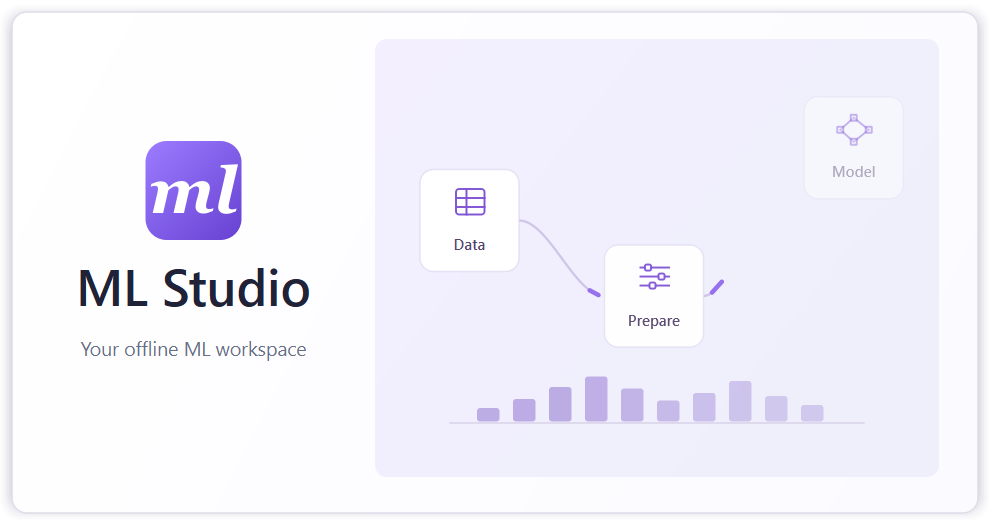
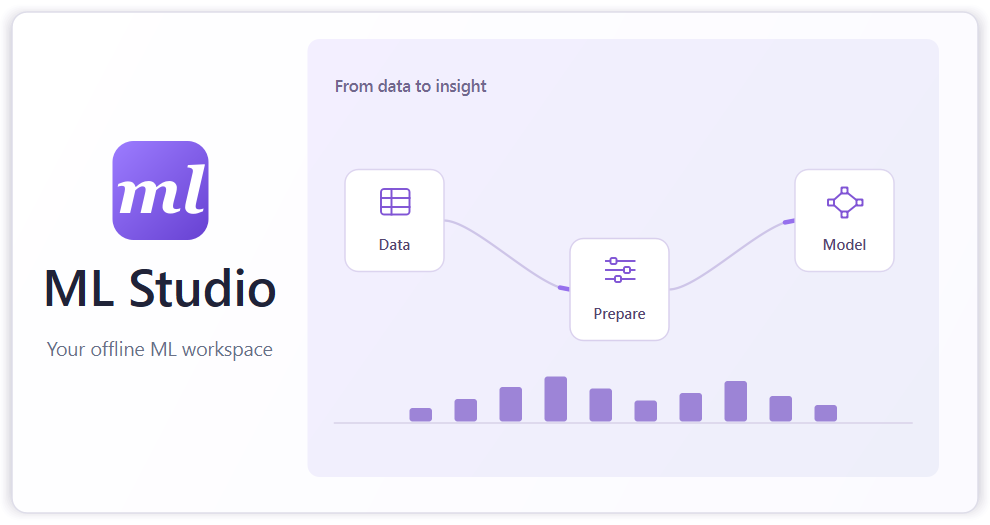
Clarify splash workflow and animate chart bars

diff --git a/src/mlstudio/launch_splash.py b/src/mlstudio/launch_splash.py
@@ -93,32 +93,33 @@ class LaunchSplash(QWidget):
         p.drawRoundedRect(QRectF(8, 8, 644, 334), 10, 10)
 
         # Wordmark and left-aligned type replace the old central orbit.
-        logo = QLinearGradient(97, 94, 161, 160)
+        logo = QLinearGradient(75, 94, 139, 160)
         logo.setColorAt(0, QColor('#9c7cff'))
         logo.setColorAt(1, QColor('#6741d2'))
         p.setBrush(logo)
         p.setPen(Qt.PenStyle.NoPen)
-        p.drawRoundedRect(QRectF(97, 94, 64, 66), 14, 14)
+        p.drawRoundedRect(QRectF(75, 94, 64, 66), 14, 14)
         font = QFont('Georgia')
         font.setPixelSize(43)
         font.setBold(True)
         font.setItalic(True)
         p.setFont(font)
         p.setPen(QColor('#ffffff'))
-        p.drawText(QRectF(97, 94, 64, 66), Qt.AlignmentFlag.AlignCenter, 'ml')
-        text((8, 169, 242, 42), 'ML Studio', 34, '#202338', QFont.Weight.DemiBold,
+        p.drawText(QRectF(75, 94, 64, 66), Qt.AlignmentFlag.AlignCenter, 'ml')
+        text((8, 169, 197, 42), 'ML Studio', 34, '#202338', QFont.Weight.DemiBold,
              Qt.AlignmentFlag.AlignHCenter | Qt.AlignmentFlag.AlignVCenter)
-        text((8, 221, 242, 22), 'Your offline ML workspace', 13, '#687086',
+        text((8, 221, 197, 22), 'Your offline ML workspace', 13, '#687086',
              align=Qt.AlignmentFlag.AlignHCenter | Qt.AlignmentFlag.AlignVCenter)
 
         # A decorative miniature workflow, without pretend task completion.
         p.setPen(Qt.PenStyle.NoPen)
-        panel = QLinearGradient(250, 26, 626, 318)
+        panel = QLinearGradient(205, 26, 626, 318)
         panel.setColorAt(0, QColor('#f3efff'))
         panel.setColorAt(1, QColor('#eeeffa'))
         p.setBrush(panel)
-        p.drawRoundedRect(QRectF(250, 26, 376, 292), 8, 8)
-        positions = [(280, 113), (400, 159), (520, 113)]
+        p.drawRoundedRect(QRectF(205, 26, 421, 292), 8, 8)
+        text((223, 47, 385, 20), 'From data to insight', 11, '#71678c', QFont.Weight.DemiBold)
+        positions = [(230, 113), (380, 159), (530, 113)]
         arrival_offsets = [(-10, -52), (44, 64), (20, -60)]
         arrival_duration = .88
         arrival_gap = .46
@@ -197,14 +198,19 @@ class LaunchSplash(QWidget):
 
         # Small abstract chart strokes give the composition a data texture.
         p.setPen(QPen(QColor('#d8d2e8'), 1))
-        p.drawLine(QPointF(300, 282), QPointF(576, 282))
+        p.drawLine(QPointF(223, 282), QPointF(608, 282))
         p.setPen(Qt.PenStyle.NoPen)
-        for index, height in enumerate([9, 15, 23, 30, 22, 14, 19, 27, 17, 11]):
-            alpha = .35 if self.reduced_motion else .3+.23*(1+math.sin(t*1.7-index*.4))/2
+        for index, final_height in enumerate([9, 15, 23, 30, 22, 14, 19, 27, 17, 11]):
+            if self.reduced_motion:
+                rise = 1.
+            else:
+                progress = min(1., max(0., (t - (1.45 + index * .1)) / .72))
+                rise = 1. - (1. - progress) ** 3
+            height = max(1., final_height * rise)
             color = QColor('#8d70cf')
-            color.setAlphaF(alpha)
+            color.setAlphaF(.42 + .42 * rise)
             p.setBrush(color)
-            p.drawRoundedRect(QRectF(318+index*24, 281-height, 15, height), 2, 2)
+            p.drawRoundedRect(QRectF(273+index*30, 281-height, 15, height), 2, 2)
 
         p.end()
 
@@ -230,7 +236,7 @@ def main():
                 'pid': os.getpid(), 'frames': splash.frames,
                 'reduced_motion': reduced, 'elapsed_seconds': round(time.monotonic()-splash.started, 2)
             }))
-        QTimer.singleShot(1200, capture)
+        QTimer.singleShot(3200, capture)
 
     def read_commands():
         try:

diff --git a/packaging/verify_launch_animation.py b/packaging/verify_launch_animation.py
@@ -20,7 +20,8 @@ def run():
     process = subprocess.Popen(command, stdin=subprocess.PIPE, env=env, text=True, creationflags=flags)
     try:
         # Deliberately leave the owning thread blocked: the animation must live.
-        time.sleep(2)
+        # Keep the UI thread blocked through the staged node and chart motion.
+        time.sleep(4.0)
         assert process.poll() is None, 'Splash exited before the IDE was ready'
         report = json.loads((out/'animation.json').read_text())
         assert report['frames'] > 12, report

diff --git a/docs/STARTUP_AND_WORKFLOW_EXPANSION.md b/docs/STARTUP_AND_WORKFLOW_EXPANSION.md
@@ -6,7 +6,7 @@ The stable project-root EXE still loads current source; it was not rebuilt. `mai
 
 `packaging/verify_workspace_startup.py` launches the **actual MLStudio.exe twice** under an isolated instance name/storage directory and confirms both launches reach the same application PID. Latest local measurement: workspace rendered in **5.43 seconds**, with 4.70 seconds after the splash helper was started. Timing varies with caches, hardware and system load; this is not clean-machine installer acceptance. Evidence: `examples/startup-verified/result.json`.
 
-`packaging/verify_launch_animation.py` runs the real `pythonw` helper while its owner is deliberately blocked. It verified 72 timer frames, visibly different screenshots during the tile assembly, a **5.66-second minimum-duration flow**, ready/fade termination and cleanup when the owner closes its private pipe. Windows' system animation preference is respected. The light landscape card and left-aligned branding remain; the Data → Prepare → Model illustration is decorative and does not report actual dataset operations. Evidence: `examples/launch-animation-verified/`.
+`packaging/verify_launch_animation.py` runs the real `pythonw` helper while its owner is deliberately blocked through the animation. It verified 197 timer frames, different first/final workflow screenshots, chart bars rising from the baseline, a **5.67-second minimum-duration flow**, ready/fade termination and cleanup when the owner closes its private pipe. Windows' system animation preference is respected. The splash uses a compact centered brand panel and a titled “From data to insight” workflow illustration; it is decorative and does not report actual dataset operations. Evidence: `examples/launch-animation-verified/`.
 
 ## Explicit source selection
 
